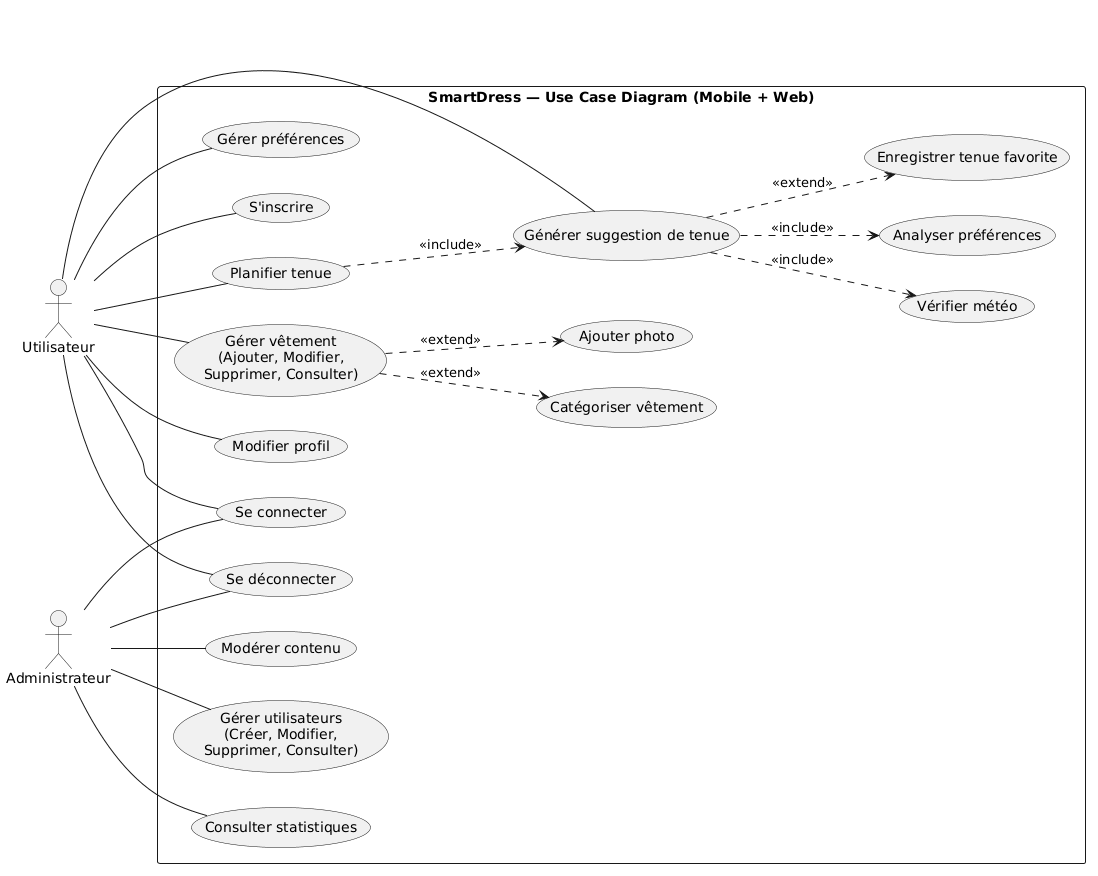
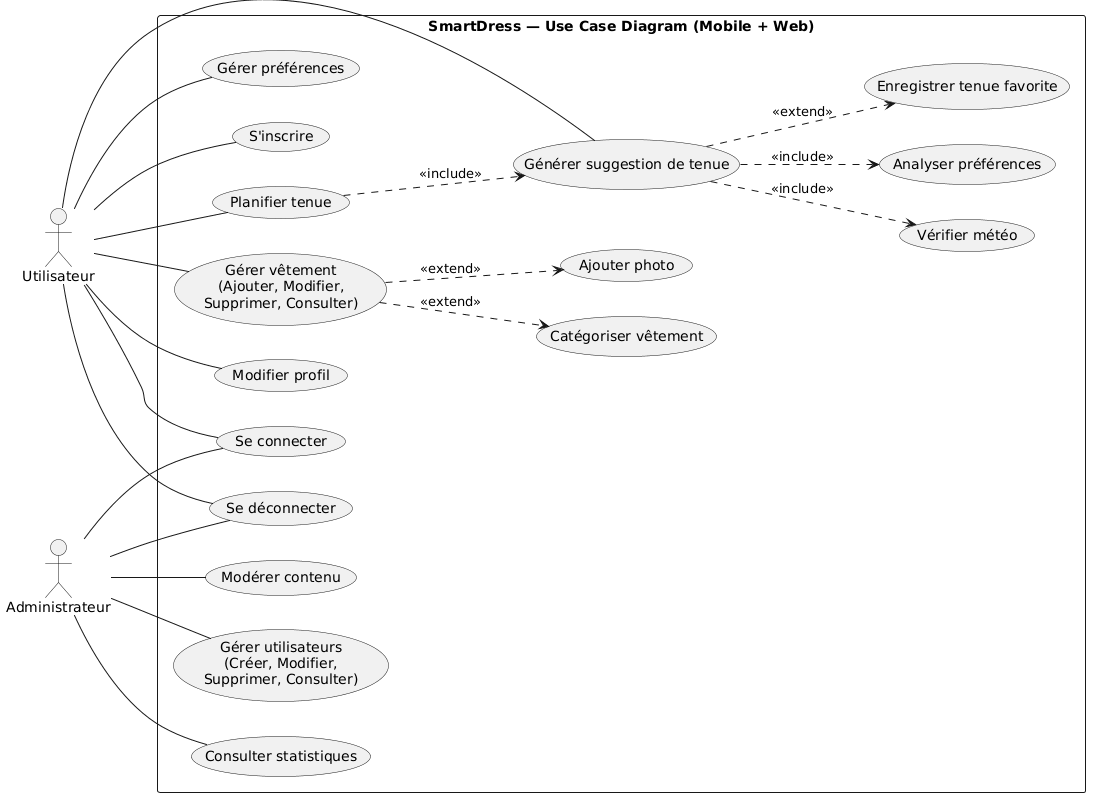
add midifications

diff --git a/Rapport/README.md b/Rapport/README.md
@@ -1,4 +1,4 @@
-# Rapport de Projet de Fin de Formation  
+# Rapport de Projet de Fin de Formation  
 ## SmartDress : Développement d’une Solution intelligente pour la recommandation et la gestion de garde-robe digitale 
 ### Formation de Développement Mobile – Mode Bootcamp  
 
@@ -236,20 +236,27 @@ Perte de temps quotidienne : Le temps passé à réfléchir à une tenue peut de
 
 # Diagramme de cas d’utilisation générale
 
+Le diagramme de cas d’utilisation de SmartDress présente les principales fonctionnalités accessibles aux deux acteurs du système : l’utilisateur et l’administrateur. L’utilisateur peut s’inscrire, se connecter, gérer ses vêtements, ajouter des photos, organiser ses articles, gérer ses préférences et recevoir des suggestions de tenues selon la météo, avec la possibilité d’enregistrer des tenues favorites. L’administrateur, quant à lui, peut gérer les utilisateurs, modérer le contenu et consulter les statistiques. Ce diagramme permet de visualiser les interactions entre les acteurs et le système avant le développement.
 
-.
+![Cas d'utilisation global](images/use_case_global.png)
 
 ---
 
 # Diagramme de cas d’utilisation Sprint 1
-.
-
-
+- Le premier sprint correspond au MVP de l’application SmartDress.
+- Il permet à l’utilisateur de se connecter, consulter sa garde-robe, gérer ses vêtements et préférences, planifier une tenue et recevoir des suggestions de tenues.
+- L’administrateur peut gérer les utilisateurs, modérer le contenu et consulter les statistiques.
+![Cas d'utilisation global](images/cas_utilisation_sprint1.png)
 
 ---
 
 # Diagramme de cas d’utilisation Sprint 2
-.
+- Ce deuxième sprint ajoute des fonctionnalités avancées à SmartDress.
+
+- L’utilisateur peut mieux gérer ses vêtements, ses préférences et enregistrer des tenues favorites, tandis que l’administrateur peut suivre l’activité et gérer les utilisateurs.
+![Cas d'utilisation global](images/use_case_sprint2.png)
+
+- Ce sprint permet ainsi d’améliorer l’expérience globale de l’application et d’optimiser la gestion de la garde-robe intelligente.
 
 ---
 

diff --git a/Presentation/README.md b/Presentation/README.md
@@ -255,7 +255,7 @@ style: |
 ## Branche Fonctionnelle : Cas d'utilisation
 
 <div class="img-container">
-  <img src="images/" class="img-usecase" alt="Global Use Case">
+  <img src="images/use_case_global.png" class="img-usecase" alt="Global Use Case">
 </div>
 
 ---
@@ -263,7 +263,7 @@ style: |
 ## Branche Fonctionnelle : Cas d'utilisation - Sprint 1
 
 <div class="img-container">
-  <img src="images/diagramme_use_case_sprint1.png" class="img-usecase" alt="Global Use Case">
+  <img src="images/cas_utilisation_sprint1.png" class="img-usecase" alt="Global Use Case">
 </div>
 
 ---
@@ -271,7 +271,7 @@ style: |
 ## Branche Fonctionnelle : Cas d'utilisation - Sprint 2
 
 <div class="img-container">
-  <img src="images/diagramme_use_case_sprint2.png" class="img-usecase" alt="Global Use Case">
+  <img src="images/use_case_sprint2.png" class="img-usecase" alt="Global Use Case">
 </div>
 
 ---